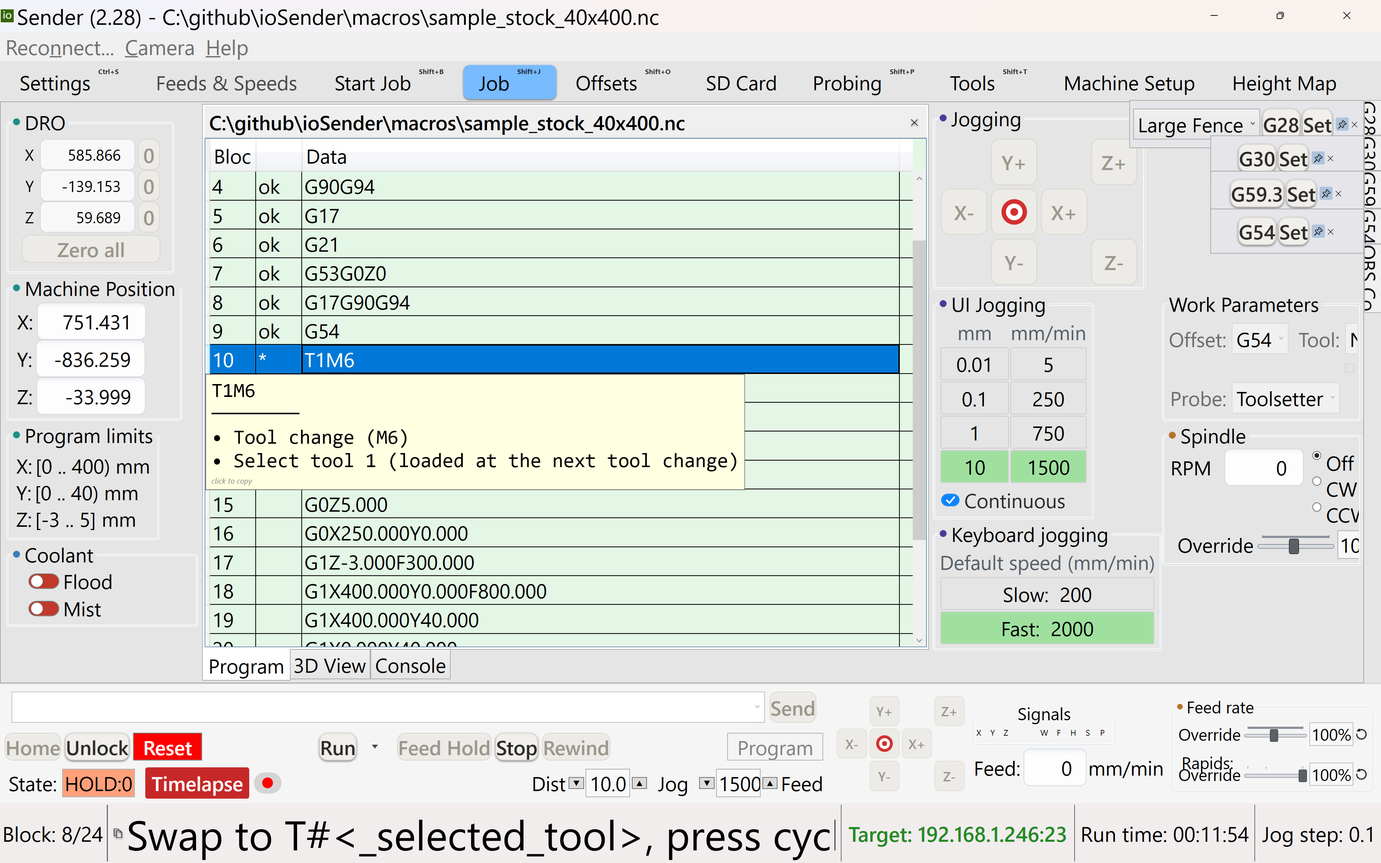
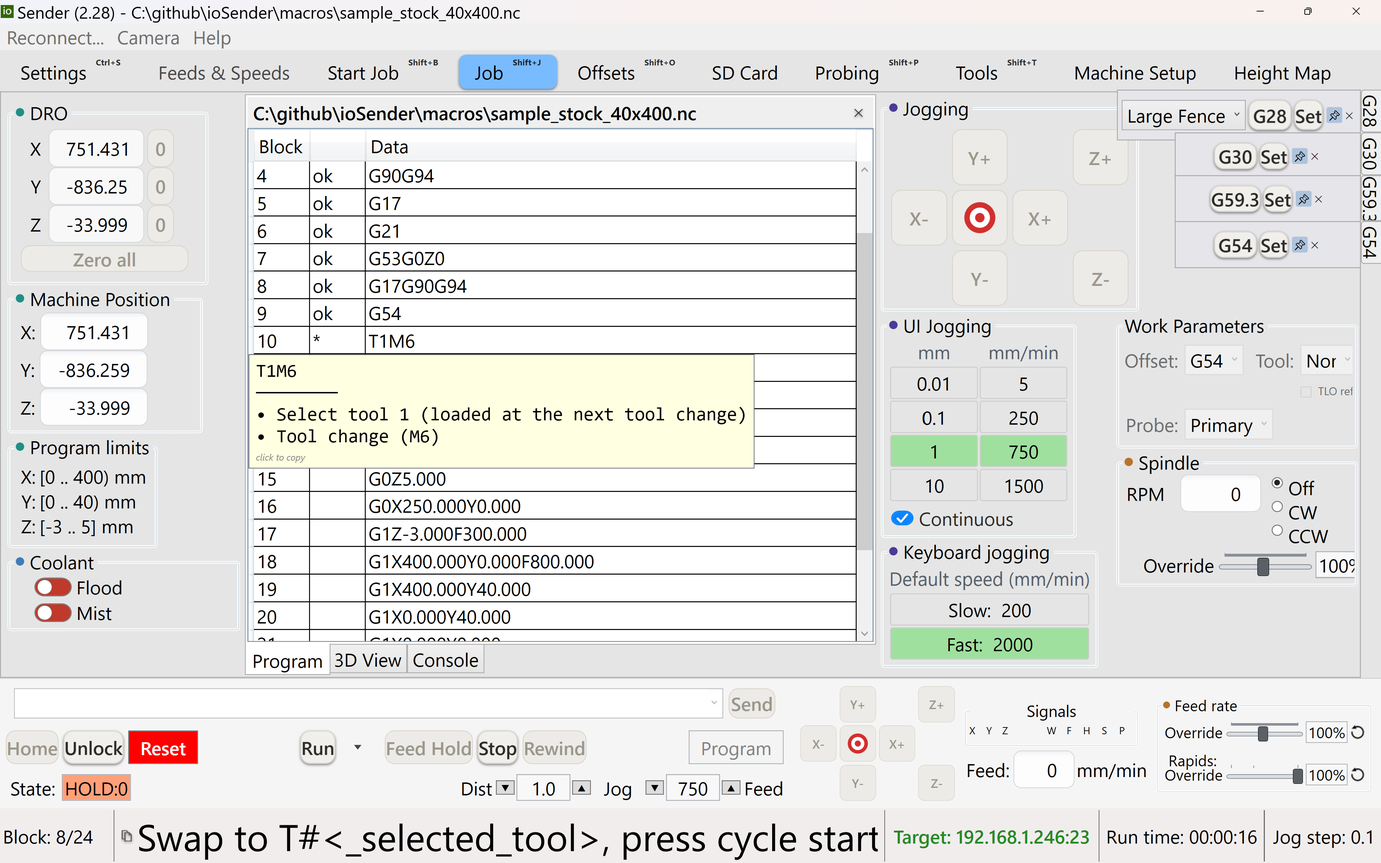
fix: T1M6 tooltip word order + manual "what you're looking at" pass + screenshot review tool
- GCodeExplainer: hover-tooltip ordering used t.ToString() on a base-typed
  reference, which always resolved to GCodeToken's own ToString() (every
  subclass hides it with "new", not "override") instead of the token's real
  one - harmless when a token's Command enum name matches its raw g-code
  word, but GCToolSelect's Command is the generic marker Commands.ToolSelect
  ("ToolSelect", never found in the line), so a tool-select word always
  sorted last regardless of where "T1" actually appears. Fixed via dynamic
  dispatch to the token's actual most-derived ToString().
- Manual: every real screenshot (14) gets a "What you're looking at" bullet
  breakdown of its visible UI regions, written for a novice reader; reshot
  job-runscreen/settings-grbl/tools-tab/feeds-and-speeds against current 2.28.
- tools/copy-latest-screenshot.ps1: added -Rank/-BatchSize so a multi-shot
  reshoot round-trip can pick the 2nd/3rd/etc. oldest of a recent batch
  instead of only ever "the latest" (which breaks once more than one new
  capture lands before the next copy).
- New tools/gen-image-review.ps1 + tracked docs/manual/_image-review.html:
  a quick local gallery of every docs/manual/img file, for eyeballing a
  reshoot batch at a glance instead of opening the full manual.

diff --git a/docs/manual/index.html b/docs/manual/index.html
@@ -561,6 +561,13 @@
       <img src="img/connect-dialog.png" alt="The ioSender connection dialog with Serial, Network and Simulator tabs">
       <figcaption>The connection dialog. Pick the transport that matches how your controller is wired.</figcaption>
     </figure>
+    <p><strong>What you're looking at:</strong></p>
+    <ul>
+      <li><strong>Serial / Network / Simulator tabs</strong> — pick whichever matches how your controller is wired; only one is used at a time.</li>
+      <li><strong>Port</strong> — the COM port your controller shows up as (Windows assigns these; check Device Manager if you're not sure which one).</li>
+      <li><strong>Baud rate</strong> — the serial speed; must match your controller firmware's own setting (115200 is the near-universal grblHAL default).</li>
+      <li><strong>On connect</strong> — an optional action to run automatically the instant the link opens; "No action" just connects and stops there.</li>
+    </ul>
 
     <table class="reftab">
       <tr><th>Tab</th><th>Use when…</th><th>You enter</th></tr>
@@ -787,6 +794,18 @@
       <img src="img/job-runscreen.png" alt="The Job screen: DRO, g-code program list, jog pad and the run bar">
       <figcaption>The Job screen with a program loaded: g-code list, live 3D view and the run bar.</figcaption>
     </figure>
+    <p><strong>What you're looking at:</strong></p>
+    <ul>
+      <li><strong>DRO</strong> (top left) — the live X/Y/Z position, with a per-axis zero button; see <a href="#jogging">Jogging &amp; the DRO</a>.</li>
+      <li><strong>Machine Position</strong> — the same position in fixed machine coordinates rather than your work origin.</li>
+      <li><strong>Program limits</strong> — the loaded program's own footprint (min/max per axis), so you can sanity-check it fits your stock before running.</li>
+      <li><strong>Coolant</strong> — manual Flood/Mist toggles, independent of whatever the running program itself commands.</li>
+      <li><strong>The g-code list</strong> (centre) — the loaded program, line by line, with the current line highlighted as it runs. Hover any line for a plain-English tooltip explaining exactly what it does (shown here for <code>T1M6</code> — "Select tool 1", then "Tool change (M6)", in the same left-to-right order the words appear in the line) — click the tooltip to copy the line.</li>
+      <li><strong>Jogging / UI Jogging / Keyboard jogging</strong> (right) — the on-screen jog pad plus the distance/feed presets each jog step uses.</li>
+      <li><strong>Work Parameters &amp; Spindle</strong> — the active work offset and tool, and manual spindle RPM/direction/override controls.</li>
+      <li><strong>The fixture panel</strong> (far right, vertical) — quick-jump buttons to named machine positions like G28/G30/G54.</li>
+      <li><strong>The run bar</strong> (bottom) — Home/Unlock/Reset, the Run button and its mode dropdown, Feed Hold/Stop/Rewind, and the feed/rapids override sliders — see below.</li>
+    </ul>
     <p>The <strong>Job</strong> screen is where you load g-code, watch it, and run it. It's the home base
     you return to for every job.</p>
 
@@ -870,6 +889,16 @@
       <img src="img/start-job-panel.png" alt="The Start Job setup panel">
       <figcaption>The Start Job setup panel.</figcaption>
     </figure>
+    <p><strong>What you're looking at:</strong></p>
+    <ul>
+      <li><strong>Setup</strong> — pick the physical Fixture you clamped the stock against and which Probe to use; Safe Z delta sets how high the probe retracts between touches.</li>
+      <li><strong>Stock</strong> — the nominal Width/Height/Thickness you already know (from your CAM file or a tape measure); tick <strong>Stock size is exact</strong> only if you trust those numbers precisely, since it changes how aggressively the probe searches for the real edge.</li>
+      <li><strong>Actions</strong> — <strong>Set origin in</strong> picks which work-coordinate slot (G54, etc.) receives the new origin; <strong>Set tool-length reference</strong> also probes the current tool's length while it's at it.</li>
+      <li><strong>Measured stock / Flatness / Squareness</strong> — filled in once you've run a probe: the real measured size, how flat the top is, and how far off-square (skewed) the stock actually sits.</li>
+      <li><strong>The Stock diagram</strong> (right) — a live schematic of the four probed corners, with each corner's angle and Z height plus the diagonal measurements, so you can see at a glance how square and flat the material really is.</li>
+      <li><strong>Copy size / Verify skew</strong> — copy the measured size back into the nominal fields, or re-touch two corners to double-check the computed rotation.</li>
+      <li>The green <strong>Generate</strong>/Run button at the bottom of the window builds (then runs) the job once you're happy with the setup.</li>
+    </ul>
 
     <h3>The steps</h3>
     <ol>
@@ -906,6 +935,15 @@
       <img src="img/machine-setup-overview.png" alt="The Machine Setup overview page listing the eight steps">
       <figcaption>The Machine Setup overview and its eight guided steps.</figcaption>
     </figure>
+    <p><strong>What you're looking at:</strong></p>
+    <ul>
+      <li>The row of numbered tabs across the top (1–8, plus Overview) is the guided sequence — work left to right; nothing is sent to the controller until you press Apply.</li>
+      <li><strong>Start from your machine</strong> — three dropdowns let you pick a known manufacturer/product/model (or Generic/custom) so the later steps start from sensible defaults instead of blank fields.</li>
+      <li><strong>Firmware / Build</strong> — shows what's actually running on the connected controller right now; <strong>Check for Updates</strong> compares it against the latest published grblHAL build.</li>
+      <li><strong>Firmware update available</strong> (popup shown here) — appears when a newer build exists; <strong>Flash Firmware</strong> reprograms the board (this disconnects ioSender and needs the board's own RESET/PROGRAM button pressed within the time shown).</li>
+      <li><strong>Firmware information</strong> (popup shown here) — a read-only dump of the controller's reported firmware, version, build, axis count and enabled options — handy when reporting a problem.</li>
+      <li><strong>Forget machine / Reload / Preview / Apply</strong> (bottom right) — Apply is the only button that actually writes settings to the controller; Preview lets you review the resulting <code>$</code> settings first.</li>
+    </ul>
     <p><strong>Machine Setup</strong> is a guided wizard that walks you through the settings a new machine
     needs before it can safely home and run — in plain-English steps instead of a wall of <code>$</code>
     numbers. Do it <strong>once</strong> when you first connect a controller (and again after a firmware
@@ -959,6 +997,15 @@
       <img src="img/probing-tabs.png" alt="The Probing tab and its routine sub-tabs">
       <figcaption>The Probing routines, with the probe selector at the top.</figcaption>
     </figure>
+    <p><strong>What you're looking at:</strong></p>
+    <ul>
+      <li>The <strong>Probe:</strong> selector (top) — choose which physical probe you're using; the routine's own parameters (feeds, travel, tip size) follow automatically from that probe's Machine Setup definition.</li>
+      <li>The sub-tabs (Tool length offset, Edge finder external/internal, Center finder) are separate routines — pick the one that matches what you're trying to measure.</li>
+      <li><strong>Probe fixture @ G59.3</strong> / <strong>Establish reference offset</strong> — the two ways to run a tool-length probe: against a fixed toolsetter location, or to record the master-tool baseline other tools compare against.</li>
+      <li><strong>Also set work origin</strong> — tick this to additionally zero the work Z from this same touch-off, choosing which coordinate system (G54, etc.) or a raw G92 offset receives it.</li>
+      <li>The live X/Y/Z readout (right) shows the probe's last recorded position once a routine completes.</li>
+      <li><strong>Start / Stop</strong> (bottom left) run and abort the selected routine.</li>
+    </ul>
     <p><strong>Probing</strong> is how the machine <em>touches</em> the work to measure position precisely,
     instead of you lining it up by eye (see <a href="#intro-to-cnc">Intro → probes</a>). The Probing tab
     gathers the individual routines, each on its own sub-tab:</p>
@@ -994,6 +1041,16 @@
       <img src="img/tools-tab.png" alt="The Tools tab">
       <figcaption>The Tools tab gathers the machine utilities (Stepper calibration (probe) shown).</figcaption>
     </figure>
+    <p><strong>What you're looking at:</strong></p>
+    <ul>
+      <li>The five sub-tabs across the top are separate utilities — this shot shows <strong>Stepper calibration (probe)</strong>; the others cover Squareness, Surface spoilboard flattening, and two other stepper-calibration methods.</li>
+      <li><strong>Calibrate</strong> — choose whether you're calibrating the XY steppers or the Z stepper (against a 1-2-3 gauge block).</li>
+      <li><strong>Fixture</strong> — pick the validated fixture (here a Corner Fence named "Serving Platter") the probe will measure against.</li>
+      <li><strong>True width/height</strong> — the reference block's own precisely-known size; the probe compares its measured size against this to work out the real steps/mm.</li>
+      <li><strong>Measured / error / new-steps/mm</strong> — filled in after a probe run: what was actually measured, how far off it was from "true", and the corrected steps/mm value ready to save.</li>
+      <li><strong>Save steps/mm</strong> writes the corrected value to the controller (<code>$100</code>/<code>$101</code> for XY, <code>$102</code> for Z); <strong>Undo</strong> reverts it.</li>
+      <li>The numbered instructions (right) walk the exact physical steps for this fixture.</li>
+    </ul>
     <p>The <strong>Tools</strong> tab gathers the machine utilities — the jobs you do <em>to</em> the machine
     rather than <em>with</em> it. Each sub-tab carries its own "About…" guidance in the app.</p>
     <table class="reftab">
@@ -1023,6 +1080,14 @@
       <img src="img/offsets-table.png" alt="The work-offset table (G54 to G59.3)">
       <figcaption>The work-offset table (G54–G59.3).</figcaption>
     </figure>
+    <p><strong>What you're looking at:</strong></p>
+    <ul>
+      <li>Each row is one work-coordinate system (<code>G54</code>–<code>G59.3</code>) or a system offset (<code>G28</code>, <code>G30</code>, <code>G92</code>) — your program runs in whichever one is currently active.</li>
+      <li><strong>X / Y / Z</strong> columns are directly editable — type a value, then click elsewhere to leave the row and commit a plain <code>G54</code>–<code>G59.3</code> change automatically.</li>
+      <li><strong>Clr</strong> clears that one offset to zero immediately; <strong>Get</strong> copies the current machine position into the row's fields (still needs you to click away to commit it).</li>
+      <li><code>G28</code>/<code>G30</code>/<code>G92</code> rows ask for confirmation before saving, since they store wherever the machine physically is right now rather than a typed number.</li>
+      <li>The explanatory panel (right) documents this machine's own convention for what <code>G30</code>/<code>G59.3</code> are used for — worth reading, since these are just storage slots without a fixed meaning of their own.</li>
+    </ul>
     <p>A <strong>work offset</strong> is the stored gap between the machine's home and a work origin (see the
     <a href="#intro-to-cnc">Intro diagram</a>). grbl keeps several of them so you can have more than one setup
     ready at once — the <strong>work coordinate systems</strong> <code>G54</code> through <code>G59.3</code>.
@@ -1070,6 +1135,13 @@
       <img src="img/settings-grbl.png" alt="The Grbl settings tab with the search box">
       <figcaption>The Grbl settings tab — searchable, with changed settings highlighted.</figcaption>
     </figure>
+    <p><strong>What you're looking at:</strong></p>
+    <ul>
+      <li>The <strong>Search</strong> box (top) filters the tree live — a wildcard like <code>$39*</code> or free text like "jog" both work, with next/previous match arrows.</li>
+      <li>The tree (left) lists every <code>$</code> setting grouped by category; a setting whose value has changed since the app started is <strong>highlighted</strong> (shown here in orange/yellow) so you can spot what's different at a glance.</li>
+      <li>Selecting a setting shows its live control and a plain-English description on the right — no need to memorize what each numbered <code>$</code> setting means.</li>
+      <li><strong>Reload / Backup / Restore / Copy to simulator / Reset to Default</strong> (bottom) — Backup/Restore let you snapshot and roll back a whole settings set; Copy to simulator pushes the same settings into the bundled offline simulator so it matches your real machine.</li>
+    </ul>
     <p><strong>Settings</strong> is one flat strip of tabs — the controller's settings plus ioSender's own
     preferences, in one place:</p>
     <table class="reftab">
@@ -1110,9 +1182,17 @@
     <h2>Feeds &amp; Speeds (Fusion 360 Addin) <a class="anchor" href="#feeds-and-speeds">#</a></h2>
     <div class="tags"><span class="tag mac">Machinist</span></div>
     <figure>
-      <img src="img/feeds-and-speeds.png" alt="The Feeds & Speeds tab's Load/Import sub-tab">
-      <figcaption>The Feeds &amp; Speeds tab's Load/Import sub-tab, ready to read the newest Fusion export.</figcaption>
+      <img src="img/feeds-and-speeds.png" alt="The Feeds & Speeds tab's Results sub-tab, mid AI review">
+      <figcaption>The Feeds &amp; Speeds tab's Results sub-tab — a chip-load table for a real job, with an AI review in progress.</figcaption>
     </figure>
+    <p><strong>What you're looking at:</strong></p>
+    <ul>
+      <li><strong>Ask AI to review</strong> / model dropdown — sends every operation to the picked AI model for a second opinion; nothing is applied automatically.</li>
+      <li>The grid — one row per operation and parameter (RPM, feeds, step-overs); <strong>Current</strong> is what Fusion exported, <strong>Recommended</strong> is the table's own chip-load-based number, <strong>Machine limit</strong> is your connected controller's actual ceiling, and <strong>Verdict</strong> flags whether it's fine (Ok), worth a small correction (Nudge), or should Change.</li>
+      <li><strong>AI Says</strong> / <strong>Prefer AI</strong> — once a review runs, the AI's own opinion appears per row; tick Prefer AI (or "for all") to use its number instead of the table's.</li>
+      <li><strong>Write apply file</strong> — saves only the flagged rows to a companion file Fusion reads back in.</li>
+      <li>The status log (bottom) is a running transcript of the review — including cost/token counts. This particular capture shows a review being cancelled partway through (<kbd>Esc</kbd>/<kbd>Ctrl</kbd>+<kbd>C</kbd>), which is why it reads "Cancelling…" / "AI review cancelled".</li>
+    </ul>
     <p>The <strong>ioSenderV2 Fusion Addin</strong> adds an "ioSenderV2" panel to Fusion 360's Manufacture
     workspace with <strong>Feeds and Speeds</strong> and <strong>Batch Post Process</strong> commands. The
     matching <strong>Feeds &amp; Speeds</strong> tab in ioSender reviews what Fusion exports against a
@@ -1175,6 +1255,13 @@
       <img src="img/sdcard.png" alt="The SD Card tab listing controller files">
       <figcaption>Files stored on the controller's SD card.</figcaption>
     </figure>
+    <p><strong>What you're looking at:</strong></p>
+    <ul>
+      <li>The file list shows what's actually stored on the controller's own SD card / flash (not your PC) — <strong>Size</strong> and <strong>Location</strong> (e.g. FatFs vs littlefs) columns show where each file physically lives on the controller.</li>
+      <li><strong>List CNC files only</strong> filters out non-g-code files (like the <code>.macro</code> files shown here) from the view.</li>
+      <li><strong>Upload</strong> copies a file from your PC onto the card; <strong>Install ATC macros</strong> pushes the controller-side macro set (the same one Machine Setup step 7 installs).</li>
+      <li>Selecting a file (not shown open here) offers Load and run / Edit / View / Delete / Move / Copy.</li>
+    </ul>
     <p>Many controllers have an <strong>SD card</strong> (or onboard flash) that stores g-code files on the
     controller itself. The SD Card tab manages those files and can run them directly.</p>
     <ul>
@@ -1197,8 +1284,15 @@
     <div class="tags"><span class="tag int">Intermediate</span></div>
     <figure>
       <img src="img/gcode-viewer.png" alt="The 3D toolpath viewer and its toolbar">
-      <figcaption>The 3D toolpath viewer and its view toolbar.</figcaption>
+      <figcaption>The Job screen with the 3D View sub-tab open, mid-program.</figcaption>
     </figure>
+    <p><strong>What you're looking at:</strong></p>
+    <ul>
+      <li>The 3D pane itself sits between the DRO panel and the jogging controls on the Job screen (see <a href="#job">The Job screen</a>) — this shot shows it mid-program, with the toolpath already carved into the stock model.</li>
+      <li><strong>Play / Pause / Stop</strong> and the speed dropdown (<strong>1x</strong>) play back the toolpath animation at the chosen speed without actually running the machine.</li>
+      <li><strong>Reset view</strong> snaps the camera back to fit the whole scene; the small cube gizmo in the bottom-right corner (the ViewCube) can be clicked to snap to a specific face.</li>
+      <li>The orange cylinder is the cutting tool's current position; the brown block is the stock, shown at its real probed size.</li>
+    </ul>
     <p>The 3D viewer sits beside the g-code list on the <a href="#job">Job</a> screen and draws the entire
     toolpath before you cut — so you can sanity-check a program, see where it sits on your stock, and watch
     progress as it runs.</p>
@@ -1237,6 +1331,14 @@
       <img src="img/heightmap.png" alt="The Height map view with area and grid controls">
       <figcaption>Building a height map over the probed area.</figcaption>
     </figure>
+    <p><strong>What you're looking at:</strong></p>
+    <ul>
+      <li><strong>Area to probe</strong> — either "From program" (matched to your loaded job's footprint via Set from program limits) or "Full table" (the whole machine bed); X/Y/W/H can be fine-tuned by hand.</li>
+      <li><strong>Grid size</strong> — how many probe points to take across that area; a smaller spacing (denser grid) is slower but captures more surface detail — Lock keeps X and Y spacing equal.</li>
+      <li><strong>Probe depth / feed</strong> — how far down to search for the surface and how gently to approach it.</li>
+      <li><strong>Start</strong> begins probing the grid point-by-point; the result draws into the <strong>Surface</strong> panel (right) once it finishes.</li>
+      <li><strong>Apply</strong> rewrites your loaded program's Z moves to follow the measured surface; <strong>Save</strong>/<strong>Load</strong> let you reuse a captured map later without re-probing.</li>
+    </ul>
     <p>A <strong>height map</strong> compensates for a surface that isn't perfectly flat. The machine probes a
     grid of points across your stock, learns the real Z at each, then <em>shifts Z as it cuts</em> to follow
     the actual surface. The classic use is <strong>PCB isolation milling</strong> or engraving a slightly
@@ -1266,6 +1368,14 @@
       <img src="img/lathe-wizard.png" alt="A lathe wizard">
       <figcaption>A lathe turning wizard.</figcaption>
     </figure>
+    <p><strong>What you're looking at:</strong></p>
+    <ul>
+      <li><strong>Profile</strong> — a saved set of defaults for this wizard (bit geometry, preferred depths) so you don't re-enter them every time.</li>
+      <li><strong>Start Z / Length / Diameter</strong> (Current/Target/Clearance) — the geometry of the cut: where it begins, how far along Z it runs, and the diameter it starts and ends at.</li>
+      <li><strong>Cut depths and feed rates</strong> — per-pass depth and feed for the roughing passes, plus a separate, lighter <strong>Last pass</strong> for the final finish pass.</li>
+      <li><strong>CSS</strong> (Constant Surface Speed) — holds a constant cutting speed at the tool tip by varying spindle RPM as the diameter changes, instead of a fixed RPM.</li>
+      <li><strong>Calculate</strong> generates the actual turning program from these numbers, ready to load and run like any other g-code.</li>
+    </ul>
     <p>ioSender also drives <strong>lathes</strong>. Turn on lathe mode under
     <a href="#settings">Settings → App → Main</a> and the interface switches to a lathe layout — X becomes the
     diameter/radius axis and Z runs along the spindle.</p>
@@ -1291,6 +1401,12 @@
       <img src="img/errors-dialog.png" alt="The Error and alarm codes dialog">
       <figcaption>The built-in Error and alarm codes reference (Help menu).</figcaption>
     </figure>
+    <p><strong>What you're looking at:</strong></p>
+    <ul>
+      <li>Two tabs — <strong>Error codes</strong> and <strong>Alarm codes</strong> — each a plain-English lookup table for every numbered code the controller can report.</li>
+      <li>Find the code shown on your Job screen's status line in this list to see exactly what it means (and, for alarms, what usually causes it).</li>
+      <li>This reference opens from the <strong>Help</strong> menu any time, even without a job running — handy to have open the first few times you hit an alarm.</li>
+    </ul>
     <p>Sooner or later the machine stops and shows a code. Don't panic — grbl is just telling you what
     happened. There are two kinds, and they mean very different things.</p>
 

diff --git a/docs/manual/_image-review.html b/docs/manual/_image-review.html
@@ -1,0 +1,30 @@
+<!doctype html>
+<html><head><meta charset="utf-8"><title>Manual image review</title>
+<style>
+body { font-family: Segoe UI, sans-serif; background:#1e1e1e; color:#ddd; margin:0; padding:16px; }
+h1 { font-size:16px; font-weight:600; }
+.grid { display:grid; grid-template-columns: repeat(auto-fill, minmax(360px, 1fr)); gap:16px; }
+.card { background:#2a2a2a; border-radius:6px; overflow:hidden; }
+.card img { width:100%; display:block; border-bottom:1px solid #444; }
+.cap { padding:6px 8px; font-size:13px; }
+.mtime { color:#999; font-size:11px; }
+</style></head>
+<body>
+<h1>docs/manual/img - 14 images (regenerate: tools\gen-image-review.ps1)</h1>
+<div class="grid">
+<div class='card'><img src='img/connect-dialog.png' loading='lazy'><div class='cap'>connect-dialog.png<br><span class='mtime'>2026-07-07 09:13:33</span></div></div>
+<div class='card'><img src='img/errors-dialog.png' loading='lazy'><div class='cap'>errors-dialog.png<br><span class='mtime'>2026-07-07 09:13:34</span></div></div>
+<div class='card'><img src='img/feeds-and-speeds.png' loading='lazy'><div class='cap'>feeds-and-speeds.png<br><span class='mtime'>2026-07-25 14:53:04</span></div></div>
+<div class='card'><img src='img/gcode-viewer.png' loading='lazy'><div class='cap'>gcode-viewer.png<br><span class='mtime'>2026-07-25 12:44:33</span></div></div>
+<div class='card'><img src='img/heightmap.png' loading='lazy'><div class='cap'>heightmap.png<br><span class='mtime'>2026-07-25 12:44:33</span></div></div>
+<div class='card'><img src='img/job-runscreen.png' loading='lazy'><div class='cap'>job-runscreen.png<br><span class='mtime'>2026-07-25 12:44:33</span></div></div>
+<div class='card'><img src='img/lathe-wizard.png' loading='lazy'><div class='cap'>lathe-wizard.png<br><span class='mtime'>2026-07-07 09:13:34</span></div></div>
+<div class='card'><img src='img/machine-setup-overview.png' loading='lazy'><div class='cap'>machine-setup-overview.png<br><span class='mtime'>2026-07-25 12:44:33</span></div></div>
+<div class='card'><img src='img/offsets-table.png' loading='lazy'><div class='cap'>offsets-table.png<br><span class='mtime'>2026-07-25 12:44:33</span></div></div>
+<div class='card'><img src='img/probing-tabs.png' loading='lazy'><div class='cap'>probing-tabs.png<br><span class='mtime'>2026-07-25 12:44:33</span></div></div>
+<div class='card'><img src='img/sdcard.png' loading='lazy'><div class='cap'>sdcard.png<br><span class='mtime'>2026-07-25 12:44:33</span></div></div>
+<div class='card'><img src='img/settings-grbl.png' loading='lazy'><div class='cap'>settings-grbl.png<br><span class='mtime'>2026-07-25 14:49:20</span></div></div>
+<div class='card'><img src='img/start-job-panel.png' loading='lazy'><div class='cap'>start-job-panel.png<br><span class='mtime'>2026-07-25 12:44:33</span></div></div>
+<div class='card'><img src='img/tools-tab.png' loading='lazy'><div class='cap'>tools-tab.png<br><span class='mtime'>2026-07-25 12:44:33</span></div></div>
+</div>
+</body></html>

diff --git a/CNC Core/CNC Core/GCodeExplainer.cs b/CNC Core/CNC Core/GCodeExplainer.cs
@@ -133,7 +133,16 @@ namespace CNC.Core
                 string phrase = ExplainToken(t);
                 if (string.IsNullOrEmpty(phrase))
                     continue;
-                int pos = lineText.IndexOf(t.ToString(), System.StringComparison.OrdinalIgnoreCase);
+                // Every GCodeToken subclass declares its own ToString() with "new", not "override" - so
+                // calling t.ToString() here (t statically typed as the base GCodeToken) always resolves to
+                // the BASE class's ToString(), never the derived one, regardless of t's actual runtime type.
+                // That's harmless for token types whose Command enum name happens to match its raw g-code
+                // word (e.g. G1), but GCToolSelect's Command is the generic marker Commands.ToolSelect, whose
+                // base ToString() renders "ToolSelect" - never found in "T1M6" - so a tool-select token always
+                // sorted last regardless of where "T1" actually appears. dynamic dispatch resolves to the
+                // token's real most-derived ToString() (its "T1"), fixing the search string.
+                string word = ((dynamic)t).ToString();
+                int pos = lineText.IndexOf(word, System.StringComparison.OrdinalIgnoreCase);
                 phrases.Add(new KeyValuePair<int, string>(pos < 0 ? int.MaxValue : pos, phrase));
             }
             lines.AddRange(phrases.OrderBy(p => p.Key).Select(p => p.Value));
